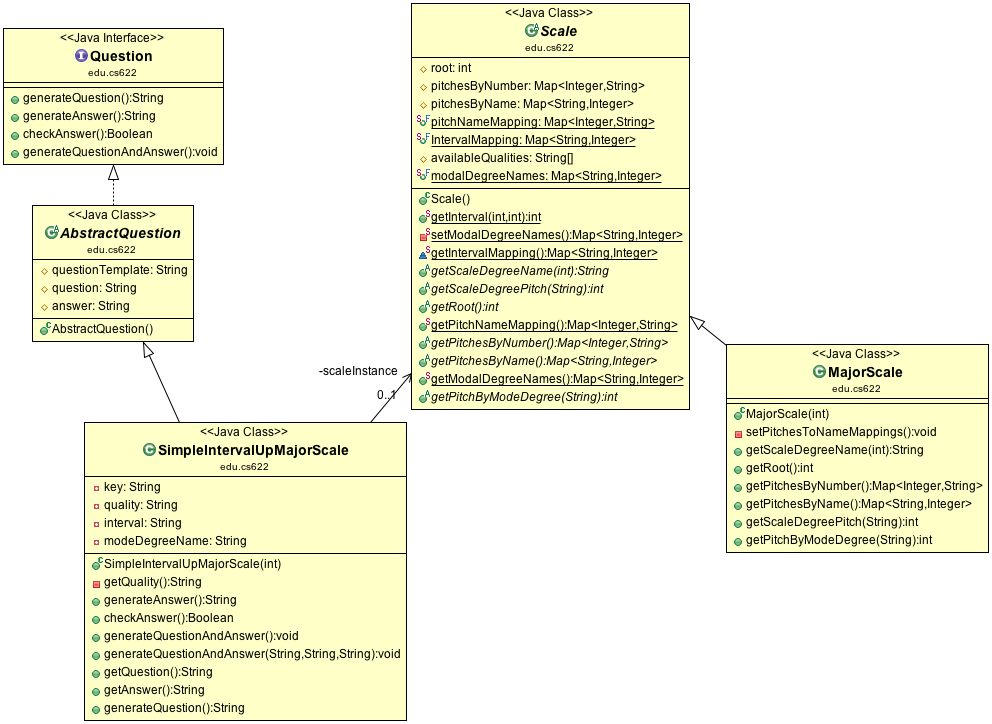
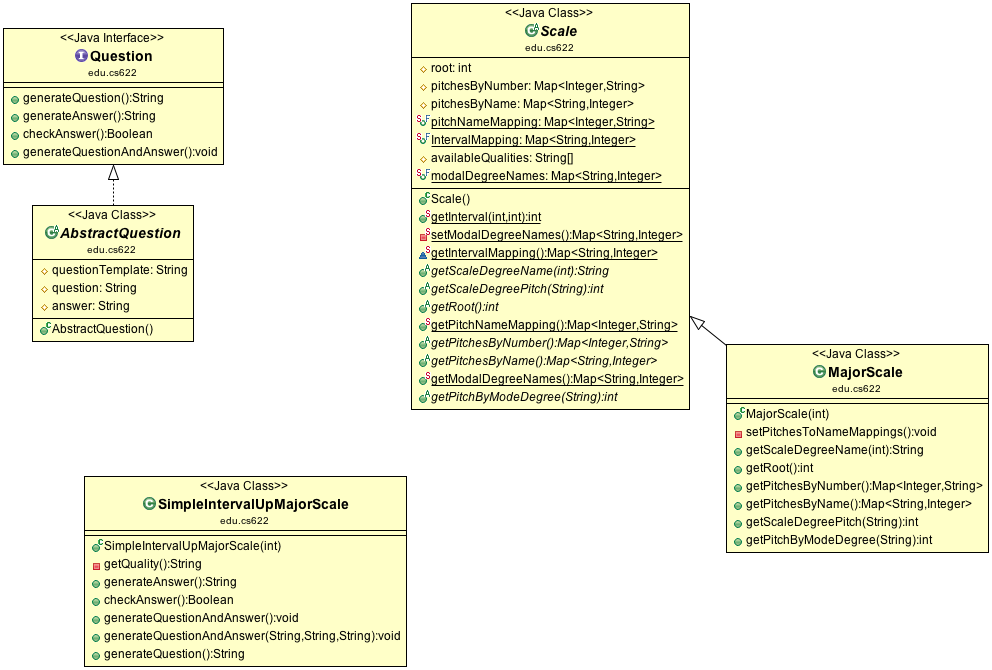
Added initial formatting for the interval down question.  Changed how the key is calculated in interval questions

Changed region(s): [[0.0625, 0.0, 1.0, 1.0], [0.0, 0.0299, 0.2188, 0.5373]]

diff --git a/HanksRichard622Project/src/edu/cs622/SimpleIntervalUpMajorScale.java b/HanksRichard622Project/src/edu/cs622/SimpleIntervalUpMajorScale.java
@@ -9,20 +9,16 @@ package edu.cs622;
  *
  */
 
-public class SimpleIntervalUpMajorScale extends AbstractQuestion{
+public class SimpleIntervalUpMajorScale extends AbstractMajorIntervalQuestion{
 	
-	private Scale scaleInstance;
-	private String key;
-	private String quality;
-	private String interval;
-	private String modeDegreeName;
+
 
 	// Constructors
 	public SimpleIntervalUpMajorScale(int root){
 		this.scaleInstance = new MajorScale(root);
 		this.questionTemplate = "In the key of %s Major, what is the note a %s the %s?";
 		// The key is represented by the String at the scaleInstance's root int
-		this.key = this.scaleInstance.getScaleDegreeName(root);
+		this.key = Scale.getPitchNameMapping().get(root);
 		this.quality = this.getQuality();
 		this.generateQuestionAndAnswer();
 		
@@ -56,6 +52,7 @@ public class SimpleIntervalUpMajorScale extends AbstractQuestion{
 	 * Inherited method from the superclass.  This version of the method takes care of calling the 
 	 * string formatted method with the proper values.  This should be the method to use as the default
 	 * unless the client needs to call with specific values
+	 * TODO this is the place to randomize the specifics of the question.  For now, these are hard coded.
 	 * @return
 	 */
 	@Override
@@ -69,7 +66,7 @@ public class SimpleIntervalUpMajorScale extends AbstractQuestion{
 	 * version of the method.
 	 * @param key the Key of the major scale (aka, the root/tonic)
 	 * @param interval the String that represents what to call the interval quality and direction
-	 * @param modeDegreeName the greek scale degree name (ie, dorian, phrygian)
+	 * @param modeDegreeName the greek scale degree name (ie, supertonic, mediant)
 	 */
 	public void generateQuestionAndAnswer(String key, String interval, String modeDegreeName) {
 		this.question = String.format(this.questionTemplate, key, interval, modeDegreeName);
@@ -84,17 +81,7 @@ public class SimpleIntervalUpMajorScale extends AbstractQuestion{
 		this.answer = Scale.getPitchNameMapping().get(finalNote);
 	}
 
-	/**
-	 * @Precondition the question has been instantiated
-	 * @return The String representation of the question
-	 */
-	public String getQuestion() {
-		return this.question;
-	}
 
-	public String getAnswer() {
-		return this.answer;
-	}
 
 	@Override
 	public String generateQuestion() {

diff --git a/HanksRichard622Project/src/edu/cs622/SimpleIntervalDownMajorScale.java b/HanksRichard622Project/src/edu/cs622/SimpleIntervalDownMajorScale.java
@@ -1,6 +1,20 @@
 package edu.cs622;
 
-public class SimpleIntervalDownMajorScale extends AbstractQuestion{
+/**
+ * Class for generating a question and answer to test downward intervals in a major scale
+ * @author Richard Hanks
+ *
+ */
+
+public class SimpleIntervalDownMajorScale extends AbstractMajorIntervalQuestion{
+	
+	// Constructors
+	public SimpleIntervalDownMajorScale(int root){
+		this.scaleInstance = new MajorScale(root);
+		this.key = Scale.getPitchNameMapping().get(root);
+		this.questionTemplate = "What is the note a %s the fifth scale degree in %s Major?";
+		this.generateQuestionAndAnswer();
+	}
 
 	@Override
 	public String generateQuestion() {
@@ -22,8 +36,12 @@ public class SimpleIntervalDownMajorScale extends AbstractQuestion{
 
 	@Override
 	public void generateQuestionAndAnswer() {
-		// TODO Auto-generated method stub
+		this.generateQuestionAndAnswer("major 2nd below");
 		
+	}
+	
+	public void generateQuestionAndAnswer(String interval){
+		this.question = String.format(this.questionTemplate, interval, this.key);
 	}
 
 }

diff --git a/HanksRichard622Project/src/testing/SimpleIntervalDownTest.java b/HanksRichard622Project/src/testing/SimpleIntervalDownTest.java
@@ -1,0 +1,25 @@
+package testing;
+
+import static org.junit.Assert.*;
+
+import org.junit.Before;
+import org.junit.Test;
+
+import edu.cs622.SimpleIntervalDownMajorScale;
+
+public class SimpleIntervalDownTest {
+	SimpleIntervalDownMajorScale intDown;
+	@Before
+	public void setUp() throws Exception {
+		intDown = new SimpleIntervalDownMajorScale(7);
+	}
+
+	// Test the formatting of the question string
+	@Test
+	public void testTheFormattingOfTheQuestion() {
+		String expectedQuestion = "What is the note a major 2nd below the fifth scale degree in G Major?";
+		assertEquals(expectedQuestion, intDown.getQuestion());
+
+	}
+
+}

diff --git a/HanksRichard622Project/src/edu/cs622/AbstractMajorIntervalQuestion.java b/HanksRichard622Project/src/edu/cs622/AbstractMajorIntervalQuestion.java
@@ -1,0 +1,21 @@
+package edu.cs622;
+
+public abstract class AbstractMajorIntervalQuestion extends AbstractQuestion{
+	protected Scale scaleInstance;
+	protected String key;
+	protected String quality;
+	protected String interval;
+	protected String modeDegreeName;
+	
+	/**
+	 * @Precondition the question has been instantiated
+	 * @return The String representation of the question
+	 */
+	public String getQuestion() {
+		return this.question;
+	}
+
+	public String getAnswer() {
+		return this.answer;
+	}
+}
